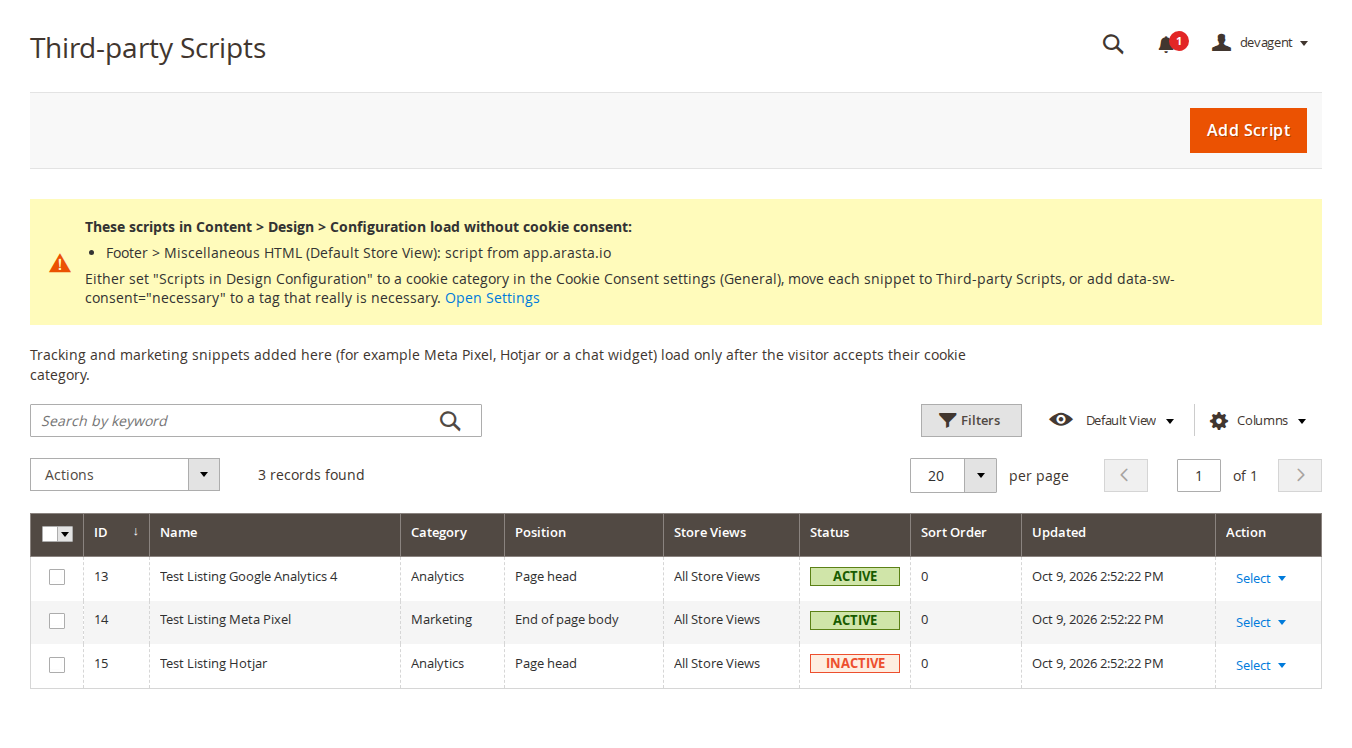
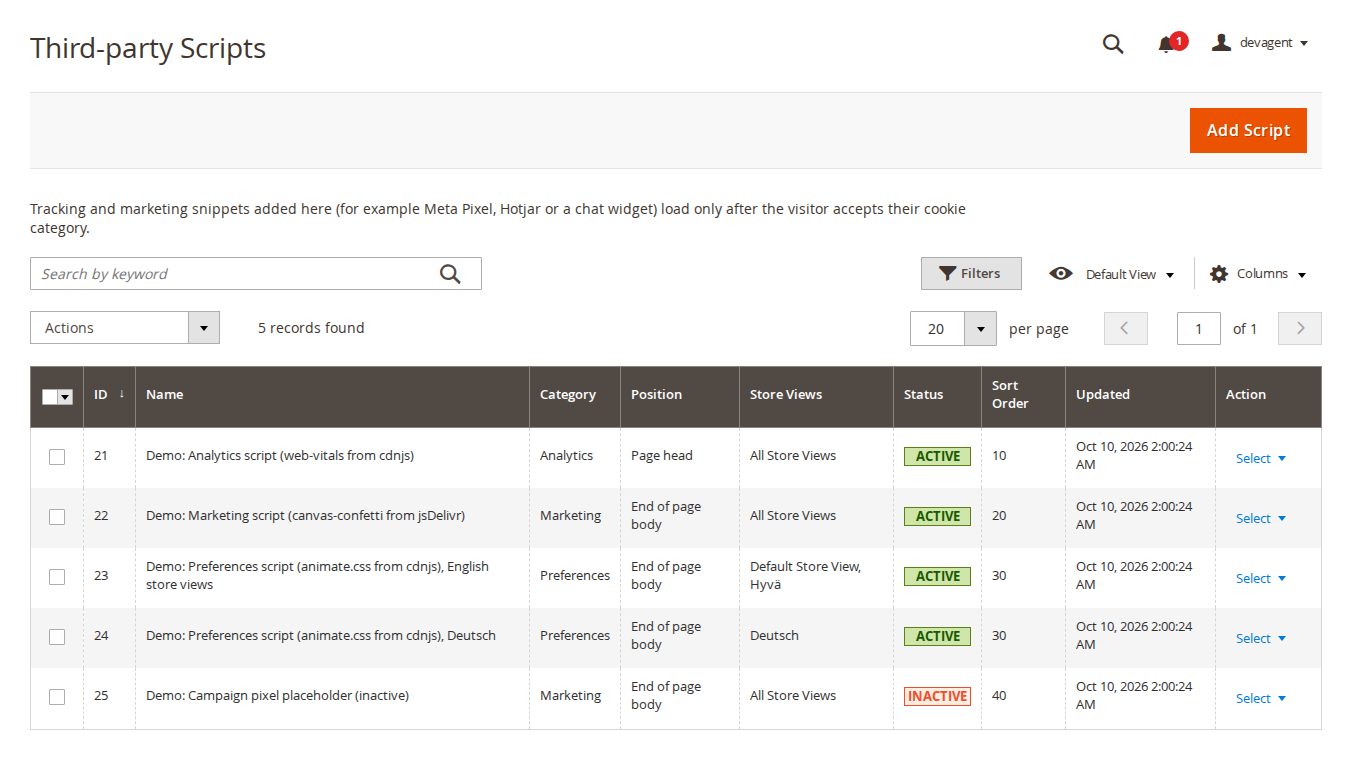
Changelog 1.3.2; docs mention the demo scripts, new Third-party Scripts screenshot

diff --git a/docs/user-guide.md b/docs/user-guide.md
@@ -8,6 +8,11 @@ an optional consent log. This guide covers installation, every setting and day-t
 - Admin demo: https://demo.softawarecommerce.com/try-admin/cookie-consent
 - Changelog: [CHANGELOG.md](../CHANGELOG.md) · Questions: [FAQ](faq.md)
 
+On the demo, harmless demo scripts (one each for Analytics, Marketing and Preferences) show the gating at work: they
+load small public libraries from cdnjs.cloudflare.com and cdn.jsdelivr.net only once their category is accepted (watch
+the browser's Network tab), and a small "Demo" message appears in the bottom left corner when each one runs. The admin
+demo lists them under *Third-party Scripts*.
+
 ![Cookie banner on the Luma storefront](images/banner-luma.png)
 
 A note before you start: the module does what this guide describes and nothing more. Which tags you run, how you

diff --git a/CHANGELOG.md b/CHANGELOG.md
@@ -1,5 +1,20 @@
 # Changelog
 
+## 1.3.2 (2026-10-10)
+
+### Fixed
+
+- Third-party Scripts: on pages served from Magento's built-in full-page cache the CSP header did not contain the
+  scripts' remote hosts (Magento rebuilds the header on a cache hit, and the dynamic CSP collector is only filled
+  while a page is rendered). After consent the browser reported the scripts (report-only) or, with the storefront CSP
+  in restrict mode, refused them. A CSP collector now adds the hosts of the store view's active scripts on every
+  storefront response, cached or not.
+
+### Changed
+
+- Docs: the user guide mentions the demo scripts on demo.softawarecommerce.com, and the Third-party Scripts
+  screenshot shows them.
+
 ## 1.3.1 (2026-10-09)
 
 ### Added
